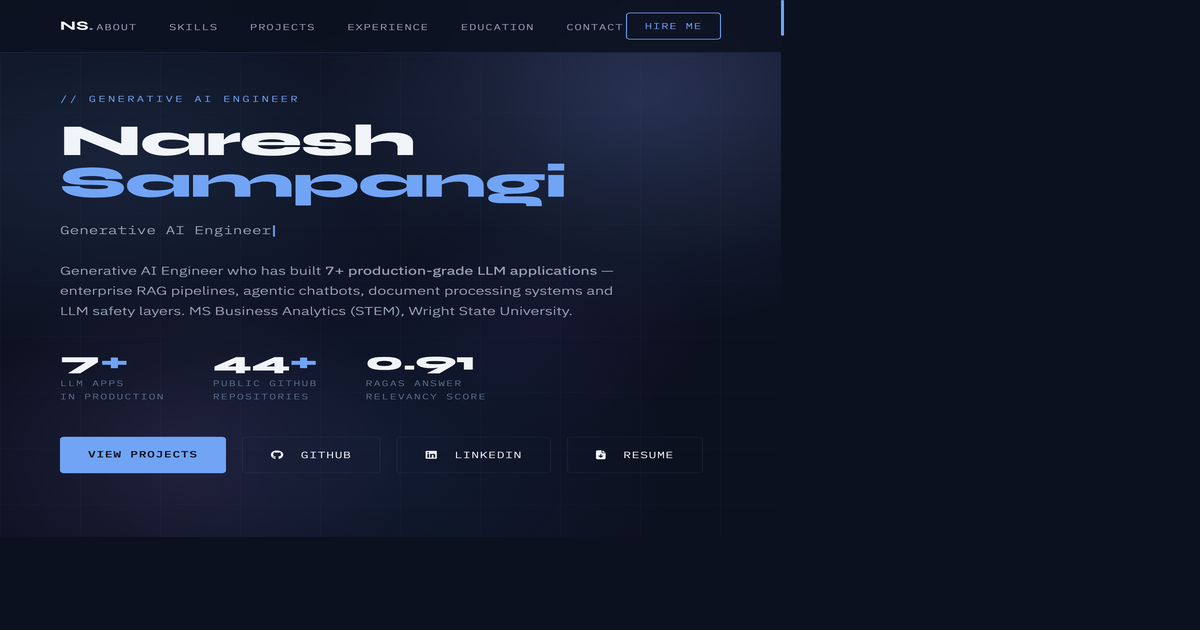
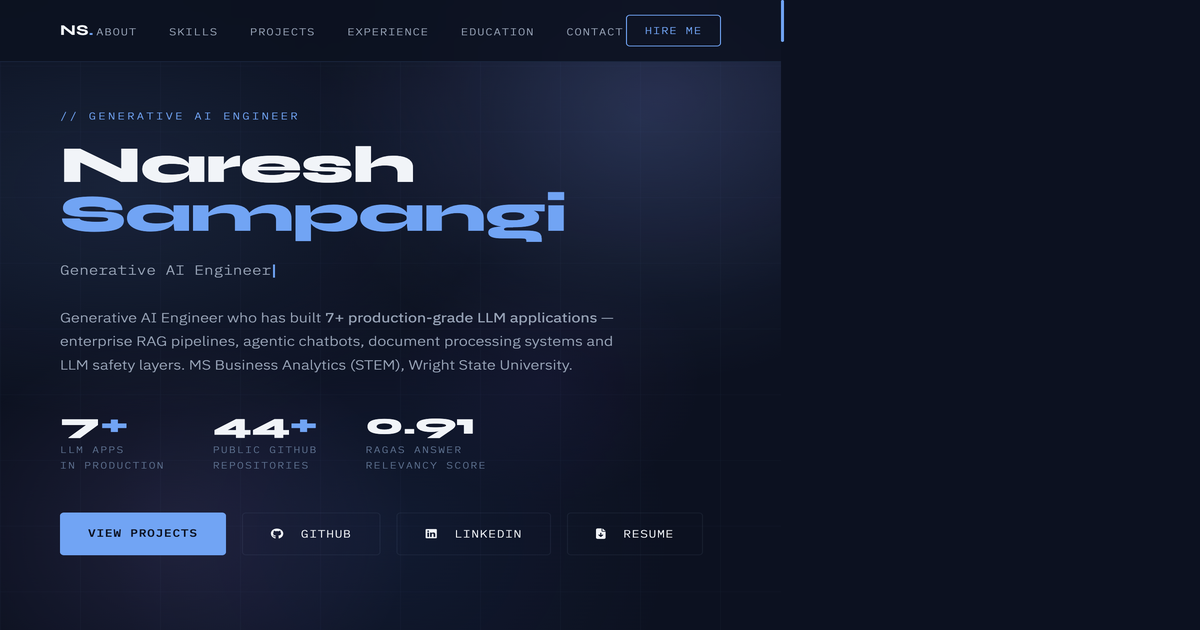
fix: full hero OG image with all buttons visible (1200x630)

diff --git a/index.html b/index.html
@@ -9,14 +9,14 @@
 <meta property="og:description" content="Built 7+ production-grade LLM applications. RAG pipelines, agentic chatbots, document processing systems."/>
 <meta property="og:url" content="https://naresh1401.github.io/personal-website/"/>
 <meta property="og:type" content="website"/>
-<meta property="og:image" content="https://naresh1401.github.io/personal-website/og-image.png?v=3"/>
+<meta property="og:image" content="https://naresh1401.github.io/personal-website/og-image.png?v=4"/>
 <meta property="og:image:width" content="1200"/>
 <meta property="og:image:height" content="630"/>
 <meta property="og:image:type" content="image/png"/>
 <meta name="twitter:card" content="summary_large_image"/>
 <meta name="twitter:title" content="Naresh Sampangi | Generative AI Engineer"/>
 <meta name="twitter:description" content="Built 7+ production-grade LLM applications. RAG pipelines, agentic chatbots, document processing systems."/>
-<meta name="twitter:image" content="https://naresh1401.github.io/personal-website/og-image.png?v=3"/>
+<meta name="twitter:image" content="https://naresh1401.github.io/personal-website/og-image.png?v=4"/>
 <meta name="keywords" content="Generative AI, LLM Engineer, RAG, LangChain, LangGraph, Python, Naresh Sampangi, AI Portfolio"/>
 <meta name="author" content="Naresh Sampangi"/>
 <meta name="robots" content="index, follow"/>
